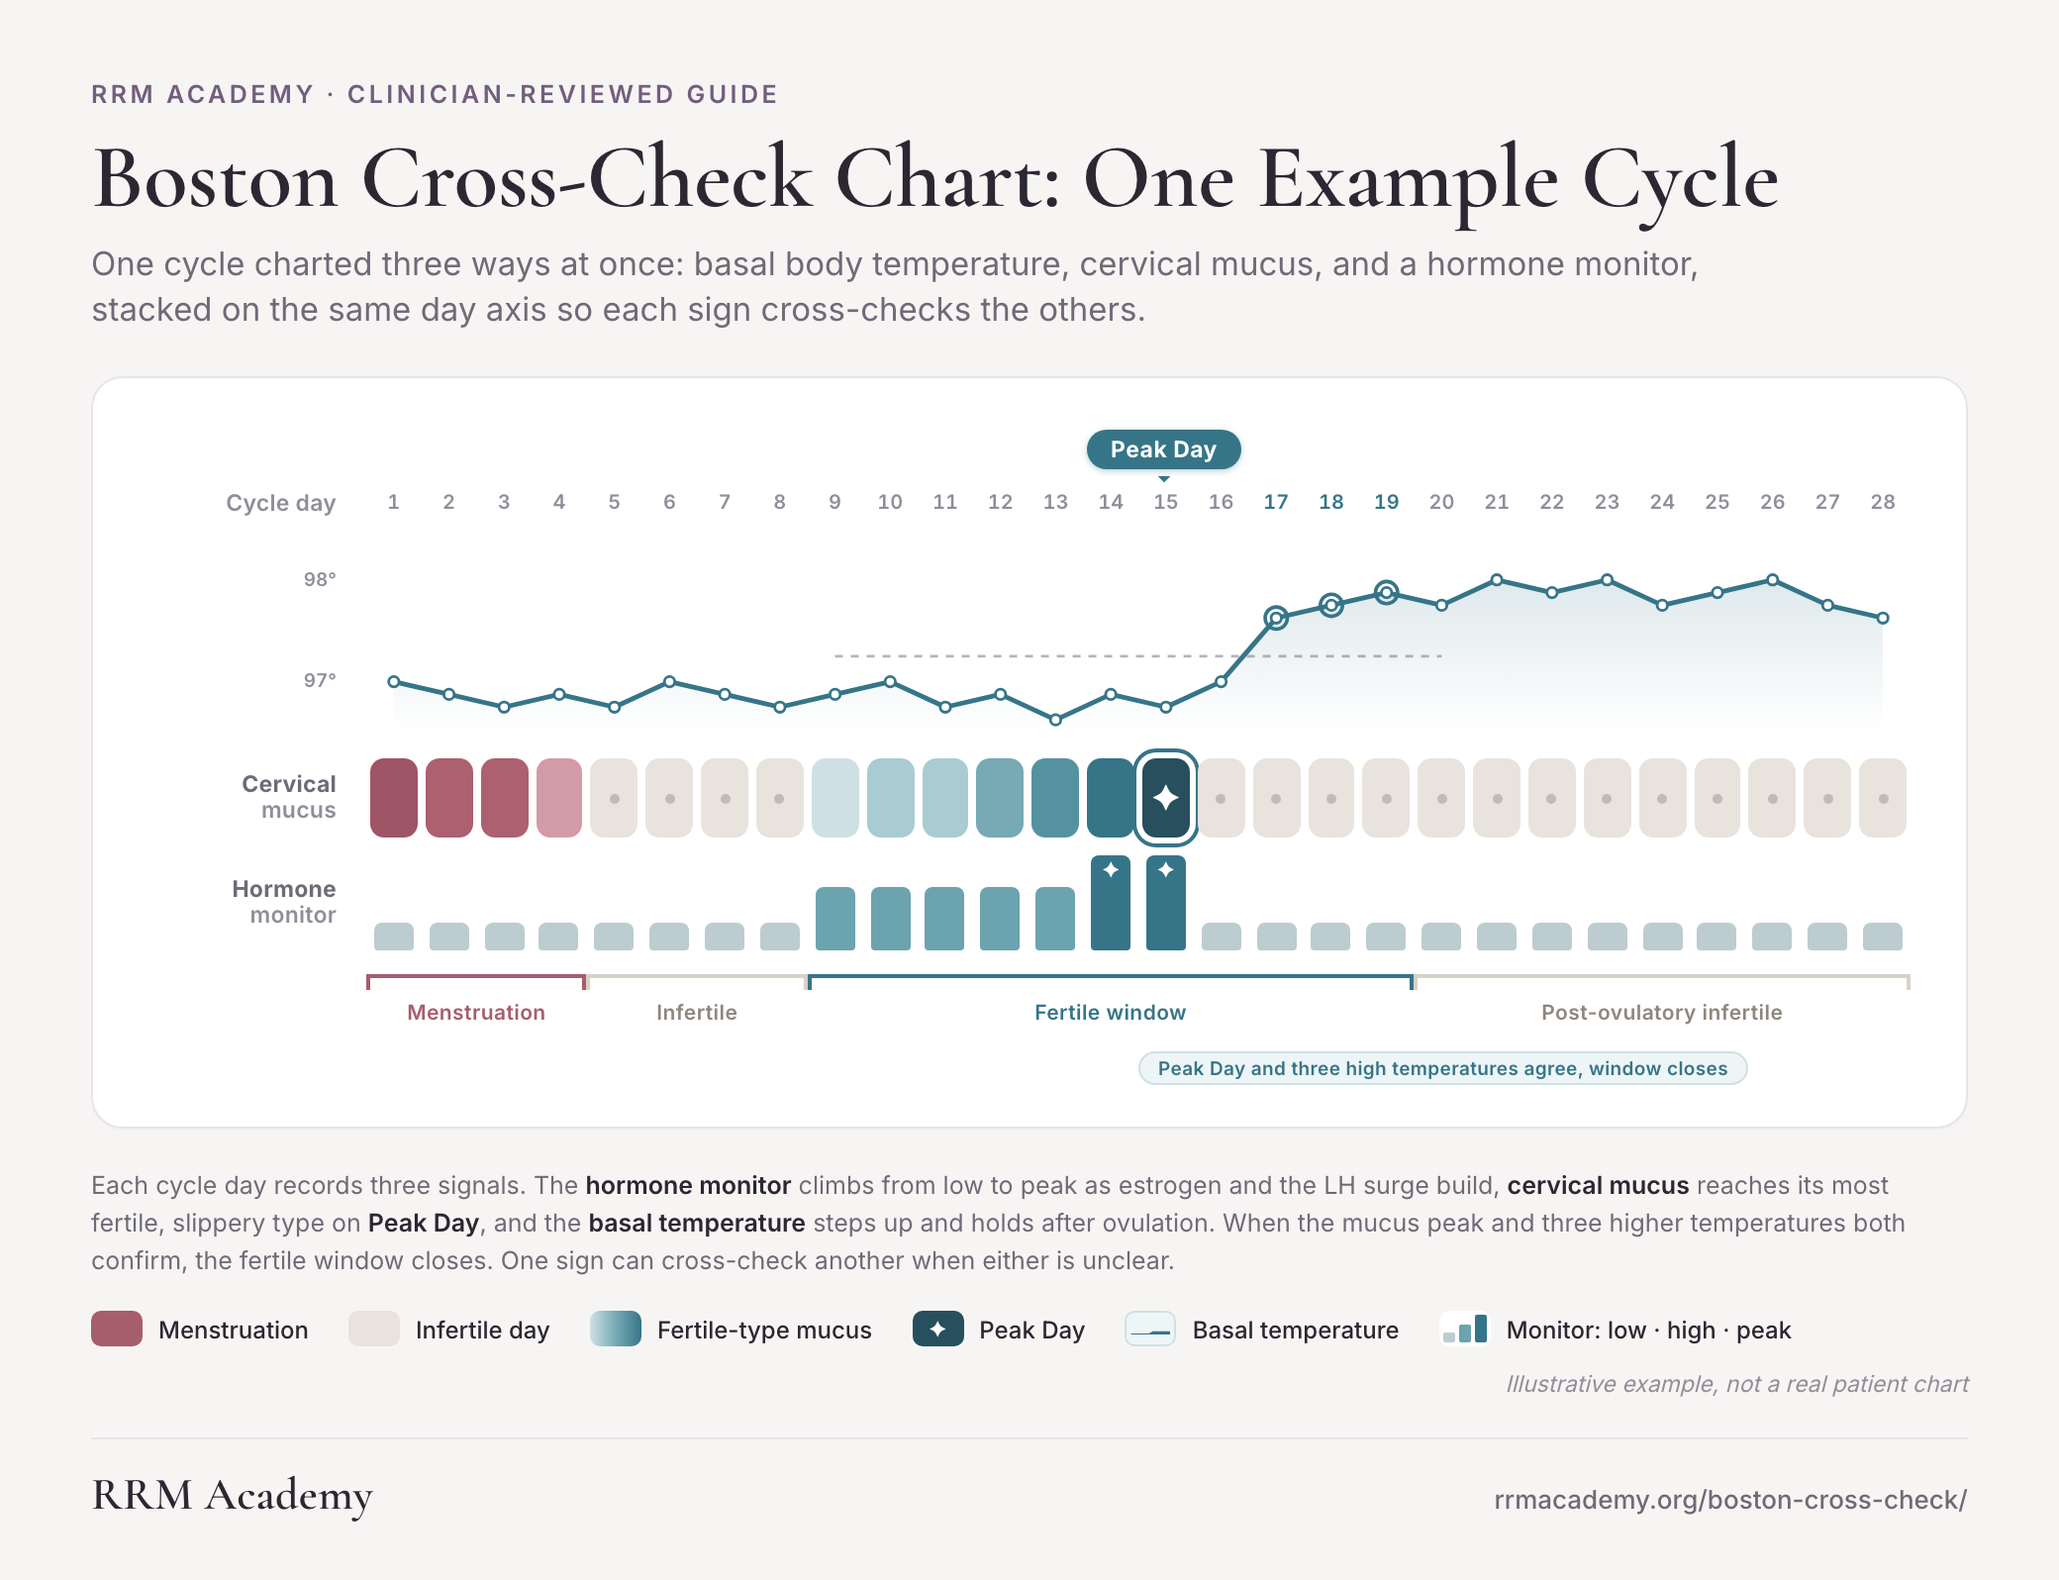
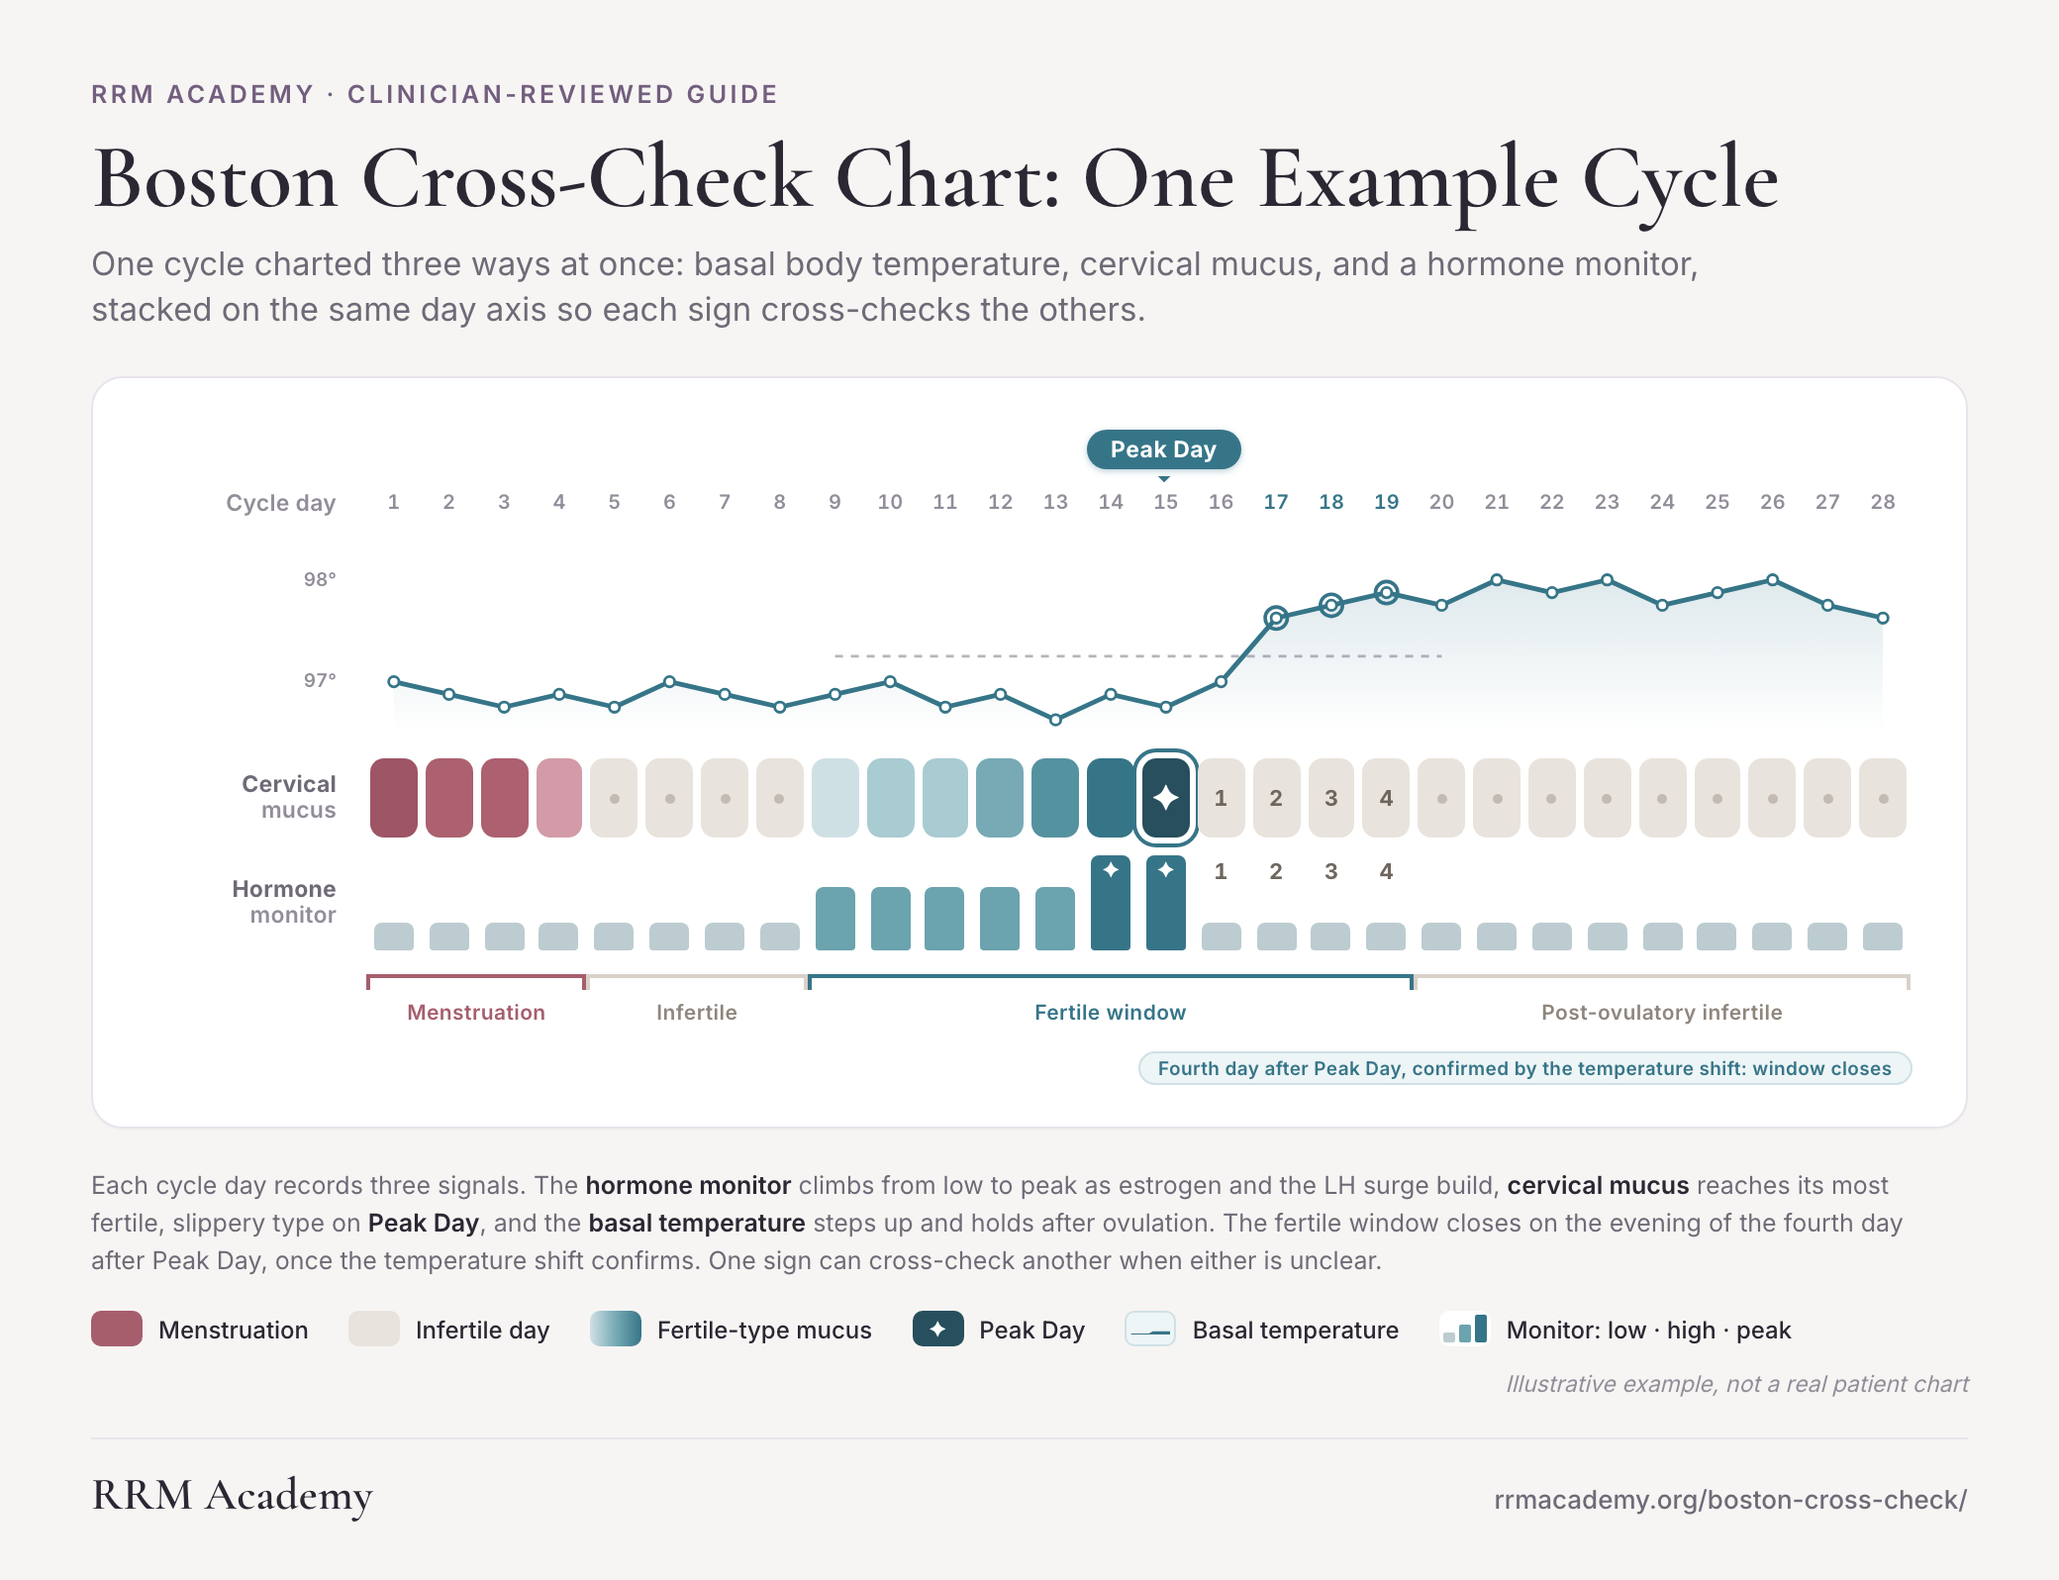
BCC chart corrected per org's reference chart (post-Peak 1-2-3-4 counts, peak-count-primary closing rule)
Claude-Session: https://claude.ai/code/session_014dCjP8zqmsNHfFnb3NziUY

diff --git a/docs/handoffs/assets/2026-07-10-fabm-charts/boston-cross-check-chart-example.html b/docs/handoffs/assets/2026-07-10-fabm-charts/boston-cross-check-chart-example.html
@@ -52,12 +52,16 @@
 
   /* monitor lane */
   .monlane .days{align-items:flex-end;height:48px}
-  .mcell{height:48px;display:flex;align-items:flex-end;justify-content:center;padding:0 2px}
+  .mcell{height:48px;display:flex;align-items:flex-end;justify-content:center;padding:0 2px;position:relative}
   .bar{width:100%;max-width:20px;border-radius:4px 4px 2px 2px;position:relative;display:flex;align-items:flex-start;justify-content:center}
   .bar.lo{background:#bcccd0}
   .bar.hi{background:var(--accent-mid)}
   .bar.pk{background:var(--accent)}
   .mstar{color:#fff;font-size:11px;line-height:1;margin-top:2px}
+
+  /* post-peak day count (1 2 3 4) */
+  .pcnt{font-size:11px;font-weight:700;color:#6f665d;font-variant-numeric:tabular-nums;letter-spacing:.01em}
+  .mcnt{position:absolute;top:1px;left:0;right:0;text-align:center;font-size:11px;font-weight:700;color:#6f665d;font-variant-numeric:tabular-nums;letter-spacing:.01em}
 
   /* brackets */
   .brkrow{margin-top:12px}
@@ -140,13 +144,13 @@
       <div class="chart" style="margin-top:9px">
         <!-- Mucus lane -->
         <div class="lbl"><b>Cervical</b>mucus</div>
-        <div class="cell"><div class="days"><div class="tile mns" style="grid-column:1;background:#9e5566"></div><div class="tile mns" style="grid-column:2;background:#ac6070"></div><div class="tile mns" style="grid-column:3;background:#ac6070"></div><div class="tile mns" style="grid-column:4;background:#d29ba7"></div><div class="tile dry" style="grid-column:5"><span class="ddot"></span></div><div class="tile dry" style="grid-column:6"><span class="ddot"></span></div><div class="tile dry" style="grid-column:7"><span class="ddot"></span></div><div class="tile dry" style="grid-column:8"><span class="ddot"></span></div><div class="tile fert" style="grid-column:9;background:#cfe0e4"></div><div class="tile fert" style="grid-column:10;background:#a9cbd2"></div><div class="tile fert" style="grid-column:11;background:#a9cbd2"></div><div class="tile fert" style="grid-column:12;background:#77aab5"></div><div class="tile fert" style="grid-column:13;background:#55929f"></div><div class="tile fert" style="grid-column:14;background:#367588"></div><div class="tile pk" style="grid-column:15"><span class="star">&#10022;</span></div><div class="tile dry" style="grid-column:16"><span class="ddot"></span></div><div class="tile dry" style="grid-column:17"><span class="ddot"></span></div><div class="tile dry" style="grid-column:18"><span class="ddot"></span></div><div class="tile dry" style="grid-column:19"><span class="ddot"></span></div><div class="tile dry" style="grid-column:20"><span class="ddot"></span></div><div class="tile dry" style="grid-column:21"><span class="ddot"></span></div><div class="tile dry" style="grid-column:22"><span class="ddot"></span></div><div class="tile dry" style="grid-column:23"><span class="ddot"></span></div><div class="tile dry" style="grid-column:24"><span class="ddot"></span></div><div class="tile dry" style="grid-column:25"><span class="ddot"></span></div><div class="tile dry" style="grid-column:26"><span class="ddot"></span></div><div class="tile dry" style="grid-column:27"><span class="ddot"></span></div><div class="tile dry" style="grid-column:28"><span class="ddot"></span></div></div></div>
+        <div class="cell"><div class="days"><div class="tile mns" style="grid-column:1;background:#9e5566"></div><div class="tile mns" style="grid-column:2;background:#ac6070"></div><div class="tile mns" style="grid-column:3;background:#ac6070"></div><div class="tile mns" style="grid-column:4;background:#d29ba7"></div><div class="tile dry" style="grid-column:5"><span class="ddot"></span></div><div class="tile dry" style="grid-column:6"><span class="ddot"></span></div><div class="tile dry" style="grid-column:7"><span class="ddot"></span></div><div class="tile dry" style="grid-column:8"><span class="ddot"></span></div><div class="tile fert" style="grid-column:9;background:#cfe0e4"></div><div class="tile fert" style="grid-column:10;background:#a9cbd2"></div><div class="tile fert" style="grid-column:11;background:#a9cbd2"></div><div class="tile fert" style="grid-column:12;background:#77aab5"></div><div class="tile fert" style="grid-column:13;background:#55929f"></div><div class="tile fert" style="grid-column:14;background:#367588"></div><div class="tile pk" style="grid-column:15"><span class="star">&#10022;</span></div><div class="tile dry" style="grid-column:16"><span class="pcnt">1</span></div><div class="tile dry" style="grid-column:17"><span class="pcnt">2</span></div><div class="tile dry" style="grid-column:18"><span class="pcnt">3</span></div><div class="tile dry" style="grid-column:19"><span class="pcnt">4</span></div><div class="tile dry" style="grid-column:20"><span class="ddot"></span></div><div class="tile dry" style="grid-column:21"><span class="ddot"></span></div><div class="tile dry" style="grid-column:22"><span class="ddot"></span></div><div class="tile dry" style="grid-column:23"><span class="ddot"></span></div><div class="tile dry" style="grid-column:24"><span class="ddot"></span></div><div class="tile dry" style="grid-column:25"><span class="ddot"></span></div><div class="tile dry" style="grid-column:26"><span class="ddot"></span></div><div class="tile dry" style="grid-column:27"><span class="ddot"></span></div><div class="tile dry" style="grid-column:28"><span class="ddot"></span></div></div></div>
       </div>
 
       <div class="chart monlane" style="margin-top:9px">
         <!-- Monitor lane -->
         <div class="lbl"><b>Hormone</b>monitor</div>
-        <div class="cell"><div class="days"><div class="mcell" style="grid-column:1"><div class="bar lo" style="height:30%"></div></div><div class="mcell" style="grid-column:2"><div class="bar lo" style="height:30%"></div></div><div class="mcell" style="grid-column:3"><div class="bar lo" style="height:30%"></div></div><div class="mcell" style="grid-column:4"><div class="bar lo" style="height:30%"></div></div><div class="mcell" style="grid-column:5"><div class="bar lo" style="height:30%"></div></div><div class="mcell" style="grid-column:6"><div class="bar lo" style="height:30%"></div></div><div class="mcell" style="grid-column:7"><div class="bar lo" style="height:30%"></div></div><div class="mcell" style="grid-column:8"><div class="bar lo" style="height:30%"></div></div><div class="mcell" style="grid-column:9"><div class="bar hi" style="height:66%"></div></div><div class="mcell" style="grid-column:10"><div class="bar hi" style="height:66%"></div></div><div class="mcell" style="grid-column:11"><div class="bar hi" style="height:66%"></div></div><div class="mcell" style="grid-column:12"><div class="bar hi" style="height:66%"></div></div><div class="mcell" style="grid-column:13"><div class="bar hi" style="height:66%"></div></div><div class="mcell" style="grid-column:14"><div class="bar pk" style="height:100%"><span class="mstar">&#10022;</span></div></div><div class="mcell" style="grid-column:15"><div class="bar pk" style="height:100%"><span class="mstar">&#10022;</span></div></div><div class="mcell" style="grid-column:16"><div class="bar lo" style="height:30%"></div></div><div class="mcell" style="grid-column:17"><div class="bar lo" style="height:30%"></div></div><div class="mcell" style="grid-column:18"><div class="bar lo" style="height:30%"></div></div><div class="mcell" style="grid-column:19"><div class="bar lo" style="height:30%"></div></div><div class="mcell" style="grid-column:20"><div class="bar lo" style="height:30%"></div></div><div class="mcell" style="grid-column:21"><div class="bar lo" style="height:30%"></div></div><div class="mcell" style="grid-column:22"><div class="bar lo" style="height:30%"></div></div><div class="mcell" style="grid-column:23"><div class="bar lo" style="height:30%"></div></div><div class="mcell" style="grid-column:24"><div class="bar lo" style="height:30%"></div></div><div class="mcell" style="grid-column:25"><div class="bar lo" style="height:30%"></div></div><div class="mcell" style="grid-column:26"><div class="bar lo" style="height:30%"></div></div><div class="mcell" style="grid-column:27"><div class="bar lo" style="height:30%"></div></div><div class="mcell" style="grid-column:28"><div class="bar lo" style="height:30%"></div></div></div></div>
+        <div class="cell"><div class="days"><div class="mcell" style="grid-column:1"><div class="bar lo" style="height:30%"></div></div><div class="mcell" style="grid-column:2"><div class="bar lo" style="height:30%"></div></div><div class="mcell" style="grid-column:3"><div class="bar lo" style="height:30%"></div></div><div class="mcell" style="grid-column:4"><div class="bar lo" style="height:30%"></div></div><div class="mcell" style="grid-column:5"><div class="bar lo" style="height:30%"></div></div><div class="mcell" style="grid-column:6"><div class="bar lo" style="height:30%"></div></div><div class="mcell" style="grid-column:7"><div class="bar lo" style="height:30%"></div></div><div class="mcell" style="grid-column:8"><div class="bar lo" style="height:30%"></div></div><div class="mcell" style="grid-column:9"><div class="bar hi" style="height:66%"></div></div><div class="mcell" style="grid-column:10"><div class="bar hi" style="height:66%"></div></div><div class="mcell" style="grid-column:11"><div class="bar hi" style="height:66%"></div></div><div class="mcell" style="grid-column:12"><div class="bar hi" style="height:66%"></div></div><div class="mcell" style="grid-column:13"><div class="bar hi" style="height:66%"></div></div><div class="mcell" style="grid-column:14"><div class="bar pk" style="height:100%"><span class="mstar">&#10022;</span></div></div><div class="mcell" style="grid-column:15"><div class="bar pk" style="height:100%"><span class="mstar">&#10022;</span></div></div><div class="mcell" style="grid-column:16"><span class="mcnt">1</span><div class="bar lo" style="height:30%"></div></div><div class="mcell" style="grid-column:17"><span class="mcnt">2</span><div class="bar lo" style="height:30%"></div></div><div class="mcell" style="grid-column:18"><span class="mcnt">3</span><div class="bar lo" style="height:30%"></div></div><div class="mcell" style="grid-column:19"><span class="mcnt">4</span><div class="bar lo" style="height:30%"></div></div><div class="mcell" style="grid-column:20"><div class="bar lo" style="height:30%"></div></div><div class="mcell" style="grid-column:21"><div class="bar lo" style="height:30%"></div></div><div class="mcell" style="grid-column:22"><div class="bar lo" style="height:30%"></div></div><div class="mcell" style="grid-column:23"><div class="bar lo" style="height:30%"></div></div><div class="mcell" style="grid-column:24"><div class="bar lo" style="height:30%"></div></div><div class="mcell" style="grid-column:25"><div class="bar lo" style="height:30%"></div></div><div class="mcell" style="grid-column:26"><div class="bar lo" style="height:30%"></div></div><div class="mcell" style="grid-column:27"><div class="bar lo" style="height:30%"></div></div><div class="mcell" style="grid-column:28"><div class="bar lo" style="height:30%"></div></div></div></div>
       </div>
 
       <div class="chart brkrow">
@@ -156,11 +160,11 @@
 
       <div class="chart subpillrow">
         <div class="lbl"></div>
-        <div class="cell"><div class="days"><div class="subpill" style="grid-column:15 / 20"><span>Peak Day and three high temperatures agree, window closes</span></div></div></div>
+        <div class="cell"><div class="days"><div class="subpill" style="grid-column:15 / 20"><span>Fourth day after Peak Day, confirmed by the temperature shift: window closes</span></div></div></div>
       </div>
     </div>
 
-    <p class="teach">Each cycle day records three signals. The <b>hormone monitor</b> climbs from low to peak as estrogen and the LH surge build, <b>cervical mucus</b> reaches its most fertile, slippery type on <b>Peak Day</b>, and the <b>basal temperature</b> steps up and holds after ovulation. When the mucus peak and three higher temperatures both confirm, the fertile window closes. One sign can cross-check another when either is unclear.</p>
+    <p class="teach">Each cycle day records three signals. The <b>hormone monitor</b> climbs from low to peak as estrogen and the LH surge build, <b>cervical mucus</b> reaches its most fertile, slippery type on <b>Peak Day</b>, and the <b>basal temperature</b> steps up and holds after ovulation. The fertile window closes on the evening of the fourth day after Peak Day, once the temperature shift confirms. One sign can cross-check another when either is unclear.</p>
 
     <div class="legendrow">
       <div class="leg"><span class="sw" style="background:var(--rose)"></span>Menstruation</div>

diff --git a/docs/handoffs/2026-07-10-fabm-method-charts.md b/docs/handoffs/2026-07-10-fabm-method-charts.md
@@ -34,6 +34,14 @@ Approved texts (Brian's register: bare ask, no greeting, no honorific, no sign-o
 
 Mechanics: claude-in-chrome on Comet, instagram.com/direct/new. Sender = Brian's session (`brwtkr` saved profile). BLOCKED 2026-07-10: IG session expired; password prompt reached, Claude does not authenticate — Brian logs in himself, then resume. After sending: verify both messages render in-thread with image, screenshot as proof.
 
+## Expert review round 1: Rebecca Vavilov (2026-07-10)
+
+Rebecca replied with Boston Cross Check's official standard example chart (Read Your Body app, "Method: Boston Cross Check") and no explicit corrections. Adjudication (opus agent, their reference + our page SSOT + public materials): our drawn window boundary was already correct (closes end of day 19 = evening of the 4th day after Peak Day), but the chart's stated rule was temperature-led and omitted the method's signature post-Peak count. CORRECTED same day in this branch's assets:
+- Added "1 2 3 4" post-Peak counts on the cervical-mucus row (days 16-19) and above the hormone-monitor row (days 16-19).
+- Pill text now: "Fourth day after Peak Day, confirmed by the temperature shift: window closes"
+- Caption sentence now: "The fertile window closes on the evening of the fourth day after Peak Day, once the temperature shift confirms."
+Accepted as defensible simplifications (unchanged): no LH/cervix/progesterone rows; sign-based day-9 opening vs their calculated day-8 opening. Our page prose asserts no numeric rules, so no page edits needed. Open: whether to DM Rebecca the corrected chart (Brian's call). Erin (FEMM) has not replied yet.
+
 ## Pending step 2: embed + deploy (gated on Brian's go-live after expert review)
 
 1. Copy the 7 `.webp` to `public/images/<slug>/<slug>-chart-example.webp`.
